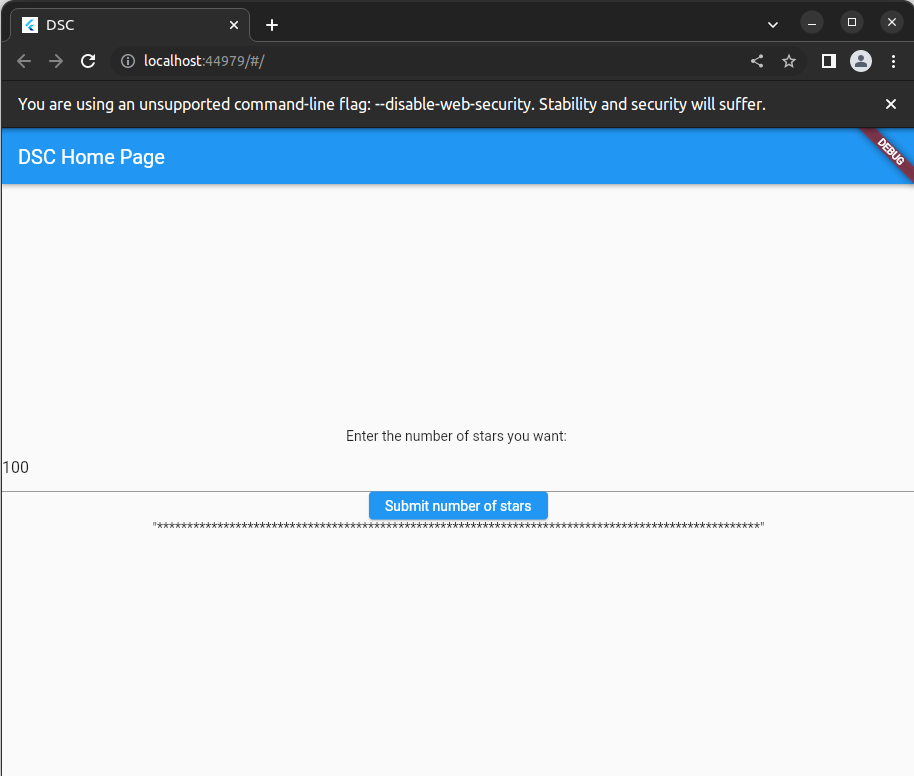
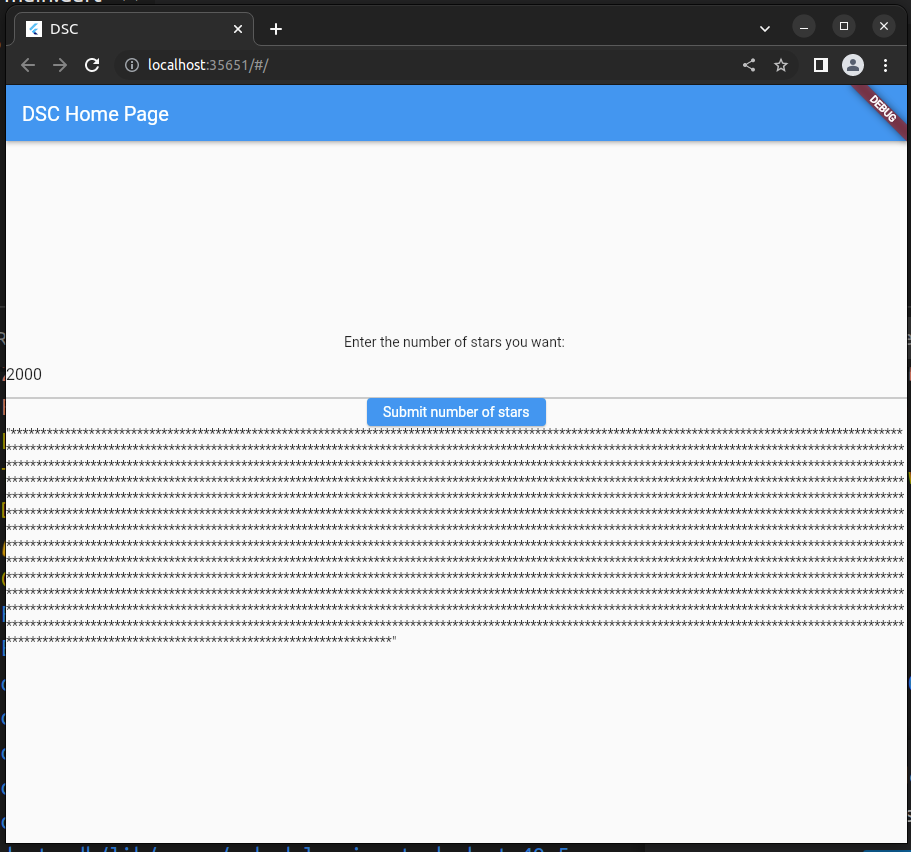
handling CORS correctly in question 9.13

diff --git a/Ch09_Application_Development/9.13.md b/Ch09_Application_Development/9.13.md
@@ -10,8 +10,16 @@ The following uses [FastAPI](https://fastapi.tiangolo.com/)
 
 ```python
 from fastapi import FastAPI
+from fastapi.middleware.cors import CORSMiddleware
 
 app = FastAPI()
+
+app.add_middleware(
+    CORSMiddleware,
+    allow_origins=["*"],
+    allow_methods=["GET"],
+    allow_headers=["*"],
+)
 
 @app.get("/stars/{n}")
 def get_stars(n: int): 
@@ -135,9 +143,6 @@ After submitting a value:
 
 <img src="9.13_final.png">
 
-But don't forget to disable [CORS](https://pub.dev/packages/flutter_cors) otherwise it doesn't work
-
-<img src="disable_cors.png">
 
 Compile: 
 
